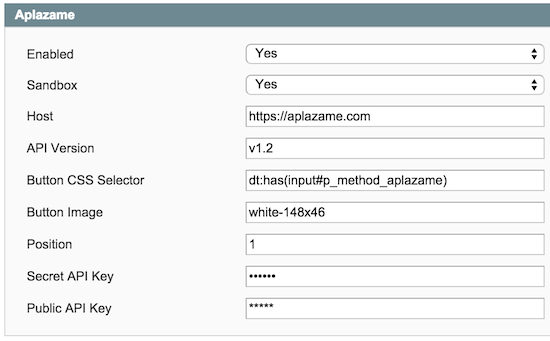
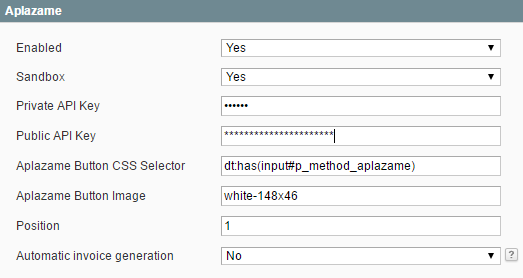
Update config docs

diff --git a/README.md b/README.md
@@ -11,13 +11,11 @@ Magento CE 1.4.0.1+
 ![config](docs/config.png)
 
 * **Sandbox**: Determines if the module is on Sandbox mode.
-* **Host**: Aplazame host `https://aplazame.com`
-* **API Version**: The latest version is `v1.2`
+* **Private API Key**: The Private Key provided by Aplazame. You cannot share this key with anyone!!
+* **Public API Key**: The Public Key provided by Aplazame.
 * **Button**: The CSS Selector for Aplazame payment method. The default selector is `dt:has(input#p_method_aplazame)`. [See bellow](#one-step-checkout-button) to configure button with One Step Checkout modules.
 * **Button Image**: [Select the image](http://docs.aplazame.com/#buttons) that appear as payment method on you cart. The default image is `white-148x46`.
 * **Position**: The position in the payment method list, by default is `1`, on the top.
-* **Secret API Key**: The Secret Key provided by Aplazame. You cannot share this key with anyone!!
-* **Public API Key**: The Public Key provided by Aplazame.
 
 > Be sure that on all fields you don't keep any whitespace. Otherwise the module can generate unexpected results.
 
